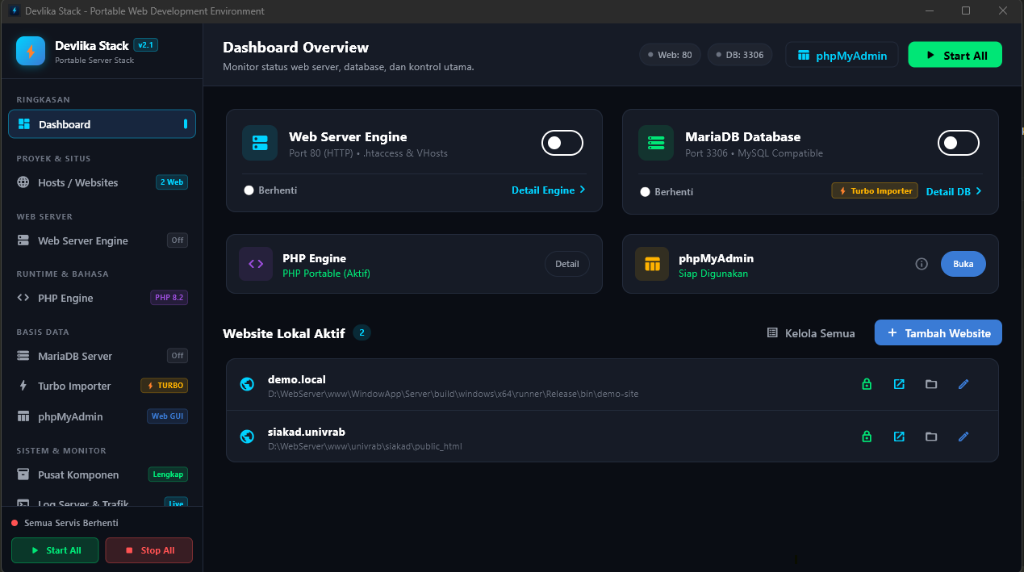
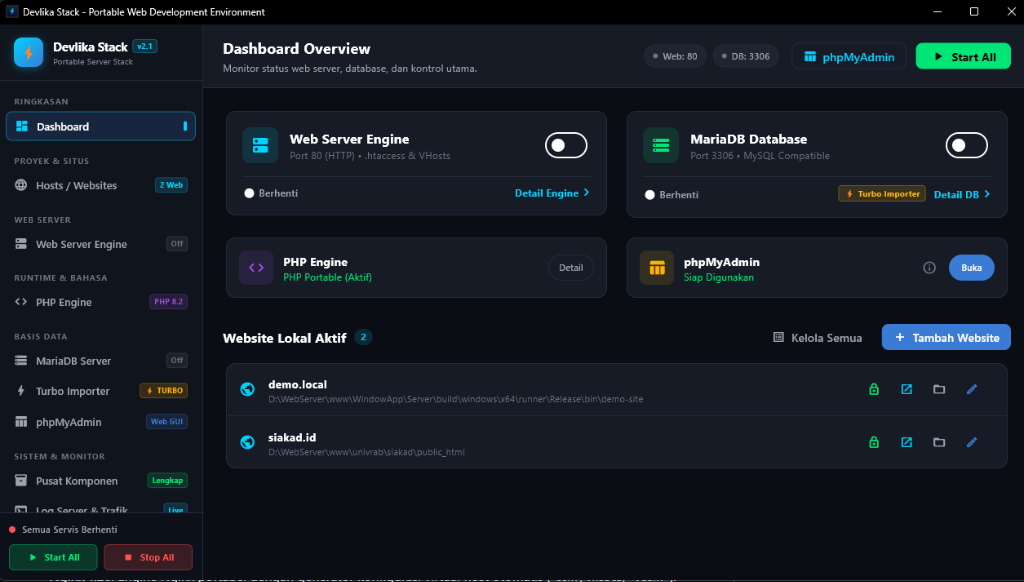
docs: Perbarui screenshot dashboard dengan domain siakad.id

diff --git a/README.md b/README.md
@@ -34,7 +34,7 @@ Berbeda dengan web server lokal tradisional yang hanya menjalankan satu versi PH
 - **SQL Importer**: Fitur import SQL dump besar dengan eksekusi bertahap (chunked transaction buffer) agar file SQL ratusan megabyte dapat diimpor tanpa memory limit atau timeout.
 
 ### 4. Virtual Host & Sinkronisasi Hosts File
-- Menambahkan domain lokal kustom (contoh: `projek.test`, `siakad.univrab`).
+- Menambahkan domain lokal kustom (contoh: `demo.local`, `siakad.id`).
 - Otomatis memperbarui file Windows hosts (`C:\Windows\System32\drivers\etc\hosts`) dengan mendaftarkan entri IPv4 (`127.0.0.1`) dan IPv6 (`::1`) agar browser tidak melakukan lookup DNS eksternal.
 - Auto-detect folder DocumentRoot: otomatis mengenali folder `public/index.php` (Laravel) atau `public_html/index.php` (CodeIgniter/arsitektur lama).
 - **Reverse Proxy**: Mendukung proxy request dari domain lokal ke port aplikasi backend lain (Node.js, Go, Python, dsb).
